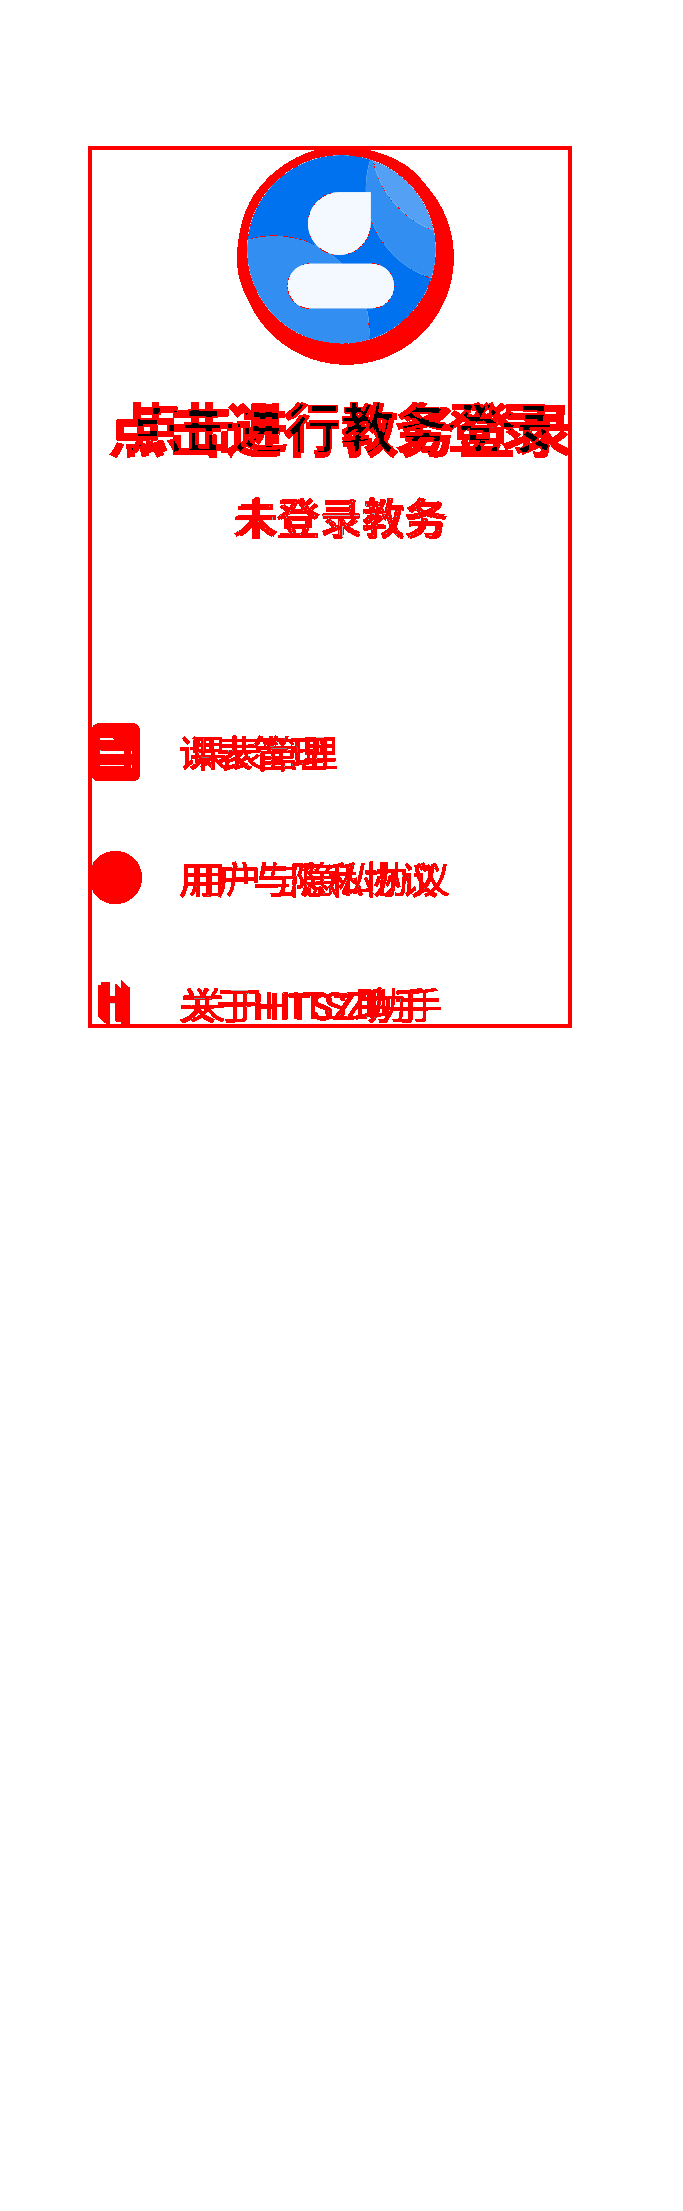
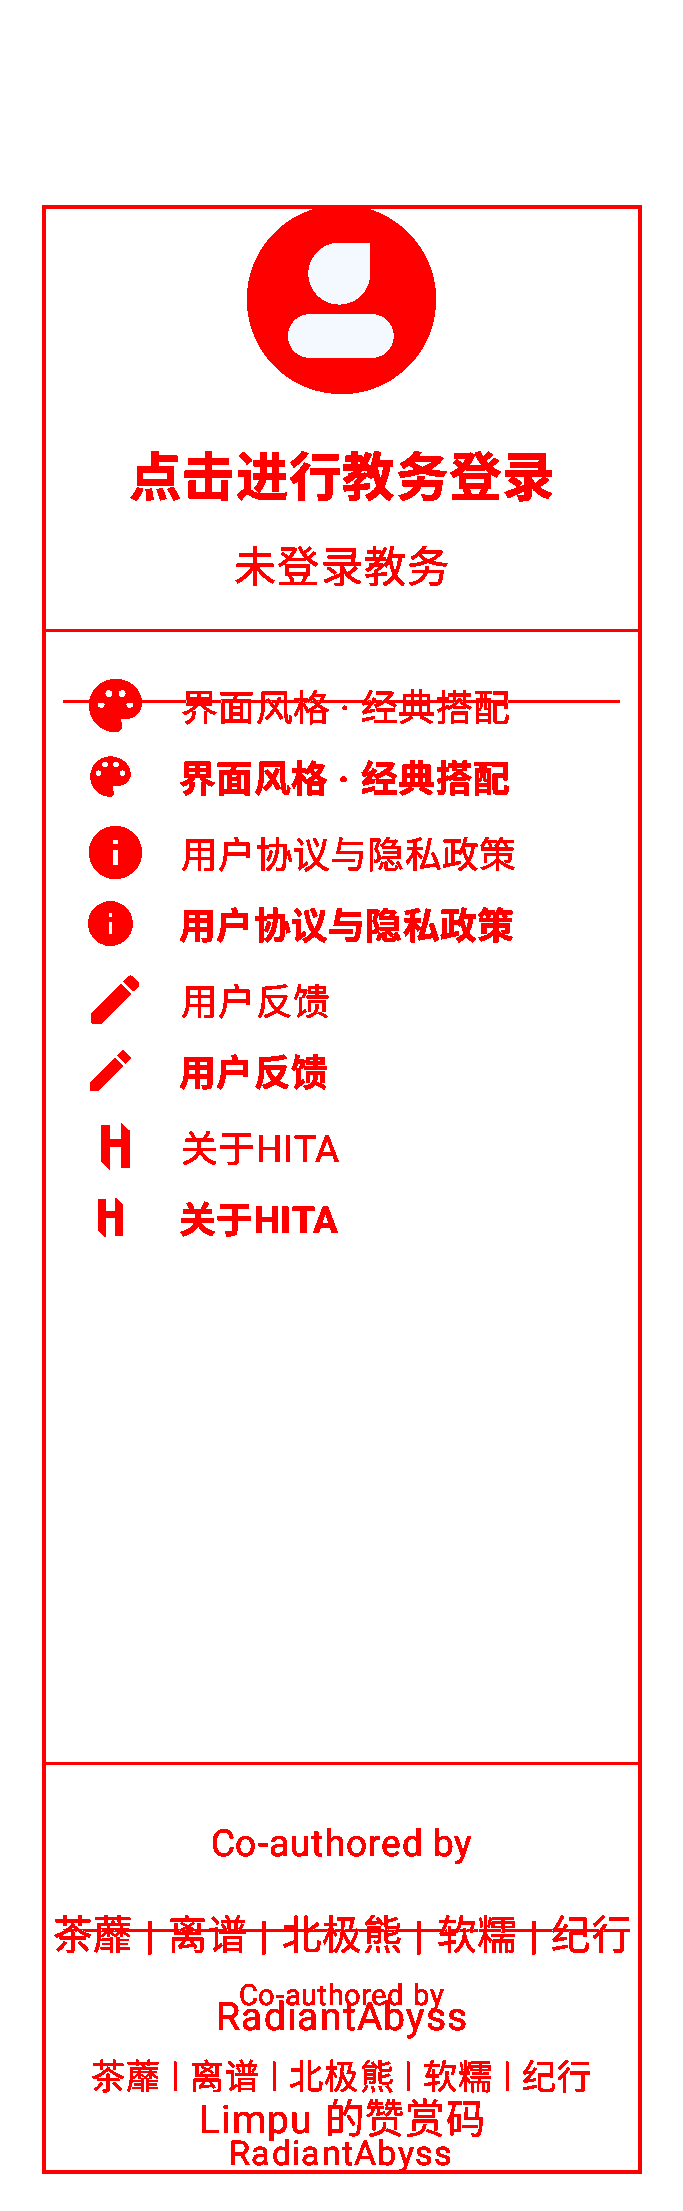
fix(shell): rebuild more drawer against HITA 3.1.2
- use cn.limpu.hita 3.1.2 instead of the 1.5.2 com.stupidtree.hitax package
- match the four 3.1.2 entries, account header and credits
- remove account and scrim PII from committed evidence
- drop a mislabeled desktop screenshot from the todo evidence
- correct the pixel audit baseline and record per-row residuals

diff --git a/app/src/main/java/com/stupidtree/hitax/shell/PresetShellActivity.kt b/app/src/main/java/com/stupidtree/hitax/shell/PresetShellActivity.kt
@@ -43,6 +43,7 @@ import androidx.compose.material.icons.filled.Notifications
 import androidx.compose.material.icons.filled.PlayArrow
 import androidx.compose.material.icons.filled.Share
 import androidx.compose.material.icons.filled.Menu
+import androidx.compose.material.icons.filled.Palette
 import androidx.compose.material.icons.filled.Person
 import androidx.compose.material.icons.filled.ChevronRight
 import androidx.compose.material.icons.filled.Link
@@ -100,6 +101,7 @@ import androidx.compose.ui.platform.LocalContext
 import androidx.compose.ui.input.pointer.pointerInput
 import androidx.compose.ui.res.painterResource
 import androidx.compose.ui.text.font.FontWeight
+import androidx.compose.ui.text.style.TextAlign
 import androidx.compose.ui.unit.dp
 import androidx.compose.ui.unit.sp
 import kotlin.math.abs
@@ -341,12 +343,26 @@ private fun HitaAndroidShell(
 @Composable
 private fun ShellDrawerOverlay(open: Boolean, onClose: () -> Unit) {
     val context = androidx.compose.ui.platform.LocalContext.current
-    val prefs = remember {
-        context.getSharedPreferences("local_eas_token", android.content.Context.MODE_PRIVATE)
+    val eas = remember {
+        (context.applicationContext as? HApplication)?.pluginHost?.service(
+            com.stupidtree.hita.api.EasService.KEY,
+        )
     }
-    val userName = remember {
-        prefs.getString("name", null)?.takeIf { it.isNotBlank() }
-            ?: prefs.getString("username", null)?.takeIf { it.isNotBlank() }
+    val userName = eas?.accountName()
+    val userSubtitle = eas?.accountSubtitle()?.takeIf { it.isNotBlank() }
+    val theme = remember {
+        (context.applicationContext as? HApplication)?.pluginHost?.service(
+            com.stupidtree.hita.api.ThemeController.KEY,
+        )
+    }
+    val styleLabel = when (theme?.themeStyle()) {
+        "apple_glass" -> "玻璃艺术"
+        "cyber" -> "赛博朋克"
+        "sora_cloud" -> "日映构成"
+        "p5" -> "波普涂鸦"
+        "deep_space" -> "深空星野"
+        "sumi" -> "墨韵"
+        else -> "经典搭配"
     }
     fun launch(className: String) {
         runCatching {
@@ -375,13 +391,12 @@ private fun ShellDrawerOverlay(open: Boolean, onClose: () -> Unit) {
             ) {
                 Column(
                     Modifier.fillMaxSize().statusBarsPadding()
-                        .verticalScroll(androidx.compose.foundation.rememberScrollState())
-                        .padding(horizontal = 16.dp, vertical = 14.dp),
+                        .padding(horizontal = 16.dp),
                 ) {
                     Column(
                         Modifier.fillMaxWidth()
                             .clickable { launch("com.stupidtree.hitax.ui.eas.login.ShenzhenWebLoginActivity") }
-                            .padding(top = 45.dp, bottom = 28.dp),
+                            .padding(top = 78.dp, bottom = 13.dp),
                         horizontalAlignment = Alignment.CenterHorizontally,
                     ) {
                         androidx.compose.foundation.Image(
@@ -392,34 +407,106 @@ private fun ShellDrawerOverlay(open: Boolean, onClose: () -> Unit) {
                         Spacer(Modifier.height(16.dp))
                         Text(
                             userName ?: "点击进行教务登录",
-                            fontSize = 22.sp,
+                            fontSize = 20.sp,
                             fontWeight = FontWeight.Bold,
+                            textAlign = TextAlign.Center,
                         )
-                        Spacer(Modifier.height(6.dp))
+                        Spacer(Modifier.height(8.dp))
                         Text(
-                            if (userName == null) "未登录教务" else "已连接教务",
+                            userSubtitle ?: "未登录教务",
                             color = shellSecondary(),
                             fontSize = 16.sp,
+                            textAlign = TextAlign.Center,
+                            maxLines = 3,
+                            overflow = TextOverflow.Ellipsis,
                         )
                     }
-                    Spacer(Modifier.height(25.dp))
-                    DrawerRow("课表管理", R.drawable.ic_menu_settings) {
-                        com.stupidtree.hitax.utils.ActivityUtils.startTimetableManager(context)
+                    Box(
+                        Modifier.fillMaxWidth().height(1.dp)
+                            .background(Color(0xFFE5E7EB)),
+                    )
+                    DrawerRow(
+                        title = "界面风格 · $styleLabel",
+                        icon = Icons.Default.Palette,
+                    ) {
+                        context.startActivity(
+                            android.content.Intent(context, com.stupidtree.hitax.uiplugin.PluginUiActivity::class.java)
+                                .putExtra(
+                                    com.stupidtree.hitax.uiplugin.PluginUiActivity.EXTRA_PLUGIN_ID,
+                                    "com.stupidtree.hita.ui.appearance",
+                                )
+                        )
                         onClose()
                     }
-                    DrawerRow("用户与隐私协议", R.drawable.ic_info) {
+                    DrawerRow(
+                        title = "用户协议与隐私政策",
+                        iconRes = R.drawable.ic_info,
+                    ) {
                         (context as? androidx.fragment.app.FragmentActivity)?.let {
                             com.stupidtree.hitax.ui.about.UserAgreementDialog()
                                 .show(it.supportFragmentManager, "ua")
                         }
                         onClose()
                     }
-                    DrawerRow("关于HITSZ助手", R.drawable.logo) {
+                    DrawerRow(
+                        title = "用户反馈",
+                        icon = Icons.Default.Edit,
+                    ) {
+                        context.startActivity(
+                            android.content.Intent(
+                                android.content.Intent.ACTION_VIEW,
+                                android.net.Uri.parse("https://github.com/kajimi16/OH-MY-HITA/issues"),
+                            )
+                        )
+                        onClose()
+                    }
+                    DrawerRow(
+                        title = "关于HITA",
+                        iconRes = R.drawable.logo,
+                    ) {
                         context.startActivity(
                             android.content.Intent(context, com.stupidtree.hitax.ui.about.ActivityAbout::class.java)
                         )
                         onClose()
                     }
+                    Spacer(Modifier.weight(1f))
+                    Box(
+                        Modifier.fillMaxWidth().height(1.dp)
+                            .background(Color(0xFFE5E7EB)),
+                    )
+                    Spacer(Modifier.height(18.dp))
+                    Text(
+                        "Co-authored by",
+                        color = shellSecondary(),
+                        fontSize = 14.sp,
+                        modifier = Modifier.fillMaxWidth(),
+                        textAlign = TextAlign.Center,
+                    )
+                    Spacer(Modifier.height(10.dp))
+                    Text(
+                        "茶蘼 | 离谱 | 北极熊 | 软糯 | 纪行",
+                        color = Color(0xFF2F80ED),
+                        fontSize = 15.sp,
+                        modifier = Modifier.fillMaxWidth(),
+                        textAlign = TextAlign.Center,
+                    )
+                    Spacer(Modifier.height(8.dp))
+                    Text(
+                        "RadiantAbyss",
+                        color = Color(0xFF2F80ED),
+                        fontSize = 15.sp,
+                        modifier = Modifier.fillMaxWidth(),
+                        textAlign = TextAlign.Center,
+                    )
+                    Spacer(Modifier.height(14.dp))
+                    Text(
+                        "Limpu 的赞赏码",
+                        color = shellTertiary(),
+                        fontSize = 15.sp,
+                        modifier = Modifier.fillMaxWidth(),
+                        textAlign = TextAlign.Center,
+                    )
+                    Spacer(Modifier.height(24.dp))
                 }
             }
         }
@@ -427,19 +514,38 @@ private fun ShellDrawerOverlay(open: Boolean, onClose: () -> Unit) {
 }
 
 @Composable
-private fun DrawerRow(title: String, iconRes: Int, onClick: () -> Unit) {
+private fun DrawerRow(
+    title: String,
+    iconRes: Int? = null,
+    icon: androidx.compose.ui.graphics.vector.ImageVector? = null,
+    onClick: () -> Unit,
+) {
     Row(
-        Modifier.fillMaxWidth().height(48.dp).clickable(onClick = onClick)
+        Modifier.fillMaxWidth().height(56.dp).clickable(onClick = onClick)
             .padding(horizontal = 16.dp),
         verticalAlignment = Alignment.CenterVertically,
     ) {
-        androidx.compose.material3.Icon(
-            painter = painterResource(iconRes),
-            contentDescription = null,
-            tint = Color(0xFF2563EB),
-            modifier = Modifier.size(24.dp),
+        when {
+            icon != null -> androidx.compose.material3.Icon(
+                icon,
+                contentDescription = null,
+                tint = Color(0xFF2563EB),
+                modifier = Modifier.size(24.dp),
+            )
+            iconRes != null -> androidx.compose.material3.Icon(
+                painter = painterResource(iconRes),
+                contentDescription = null,
+                tint = Color(0xFF2563EB),
+                modifier = Modifier.size(24.dp),
+            )
+        }
+        Text(
+            title,
+            fontSize = 14.sp,
+            modifier = Modifier.padding(start = 13.dp),
+            maxLines = 1,
+            overflow = TextOverflow.Ellipsis,
         )
-        Text(title, fontSize = 14.sp, modifier = Modifier.padding(start = 16.dp))
     }
 }
 

diff --git a/docs/plans/2026-11-19-pixel-audit.md b/docs/plans/2026-11-19-pixel-audit.md
@@ -6,7 +6,7 @@
 ## 1. 环境与口径
 
 - 设备：`emulator-5554`，1080×2400，密度 420，浅色，字体缩放 1.0。
-- 上游：`com.stupidtree.hitax`（HITA_Android 3.1.2）。
+- 上游：`cn.limpu.hita`（HITA_Android 3.1.2，versionCode 2026103101）。
 - 被测：`io.github.kajimi16.ohmyhita`（0.7.3-dev）。
 - 工具：`scripts/visual_diff.py`、`uiautomator dump`、设备截图。
 - 阈值沿用 7.1 方案：内容区 ≤2.0%，header/dock ≤1.0%。
@@ -34,36 +34,58 @@
 
 ### 3.1 更多页抽屉
 
-问题：旧抽屉只有文字与箭头，宽度 300dp、头像 96dp、行高约 62dp；
-上游是 260dp 抽屉、72dp 头像、48dp 行。
+基准确认：设备上 `com.stupidtree.hitax` 是 **1.5.2**，不是文档基准；
+真正的 HITA_Android 3.1.2 是 `cn.limpu.hita`（versionCode 2026103101）。
+本节已全部改用 `cn.limpu.hita` 重测，先前基于 1.5.2 的 3.257% 结论作废。
 
-修复后测量：
+3.1.2 抽屉内容：
 
-| 项目 | 上游 | 当前 |
+```text
+账号头像 / 姓名 / 学号 + 学院年级
+界面风格 · 经典搭配
+用户协议与隐私政策
+用户反馈
+关于HITA
+Co-authored by ...
+```
+
+实现已改为同一结构与顺序，账号信息来自 `EasService.accountName/accountSubtitle`。
+
+测量：
+
+| 项目 | 上游 3.1.2 | 当前 |
 |---|---:|---:|
-| 抽屉宽度 | 683 px（260dp） | 683 px |
-| 头像 bounds | `[644,218][832,406]` | `[644,218][832,406]` |
-| 行高 | 126 px（48dp） | 126 px |
-| 首行中心 | ≈815 px | ≈819 px |
-| 标题/用户名 bounds | 449 / 548 | 449 / 548 |
+| 抽屉起始 x / 宽度 | 397 / 683 px | 397 / 683 px |
+| 头像 bounds | `[644,268][832,456]` | `[644,268][832,456]` |
+| 姓名基线 y | 499–574 | 499–574 |
+| 副标题起点 y | 595 | 595 |
+| 行文字起点 x | 576 | 578 |
+| 行中心间距 | 147 px（56dp） | 147 px |
 
-差异（排除状态栏，tolerance 10）：
+逐行对齐后差异（排除状态栏，tolerance 10）：
 
-| 区域 | 差异 |
+| 行 | 差异 |
 |---|---:|
-| 抽屉面板 | **3.257%** |
-| 抽屉行 | **6.666%** |
-| 抽屉头部 | **8.940%** |
+| 界面风格 | 8.896% |
+| 用户协议与隐私政策 | 8.958% |
+| 用户反馈 | 3.771% |
+| 关于HITA | 3.492% |
 
-结论：**结构、尺寸、关键 bounds 通过；像素未达 1%**。残差集中在：
-`NavigationView` 默认字体栅格化、菜单图标内边距、头像 PNG 解码；继续调是过拟合，
-本轮停止。抽屉不是 7.1 的页面阈值对象，不能据此声明整页通过。
+登录态不一致：上游已登录（两行学号/学院），被测当前未登录（一行“未登录教务”），
+因此整面板差异 7.075% **不能作为像素通过/失败比例**；只使用逐行组件比较。
+残差集中在图标资源与字体栅格化。
+
+结论：**内容、顺序、宽度、头像与行距通过；像素未通过**。要完成像素验收，
+必须在被测端建立与上游相同的登录态，然后重算整面板。
 
 截图：
 
-- `docs/evidence/7.1/2026-11-19/new-pages/upstream_drawer.png`
+> 上游抽屉截图的账号头部与左侧 scrim 已全部涂白，避免提交姓名/学号/学院信息；
+> 头像与文字的 bounds 只以数值记录。
+
+- `docs/evidence/7.1/2026-11-19/new-pages/upstream_drawer.png`（`cn.limpu.hita` 3.1.2，头部已脱敏）
 - `docs/evidence/7.1/2026-11-19/new-pages/host_drawer_current.png`
-- `docs/evidence/7.1/2026-11-19/new-pages/diff_drawer_panel.png`
+- `docs/evidence/7.1/2026-11-19/new-pages/diff_drawer_panel.png`（登录态不同，仅供定位）
 
 ### 3.2 成绩分析插件页
 
@@ -106,7 +128,8 @@ changed_pixels=250897  ratio=9.941%
 ## 5. 复审结论
 
 1. 已关闭项维持原状态，不重复优化 HITA-L 三页、资讯残差、视频 429、header/dock。
-2. 更多页抽屉完成结构/尺寸/bounds 对齐；像素 3.257%，记录为已知残差。
+2. 更多页抽屉已按真正的 `cn.limpu.hita` 3.1.2 重做；内容/尺寸/bounds 通过，
+   逐行像素 3.5%–9.0%，整面板因登录态不同不记通过。
 3. 成绩插件页未通过像素验收；TopAppBar 已补，但标题/动作/空态结构仍不同。
 4. 其余未比较对象要么没有上游等价页面，要么缺少登录态/等价数据，不能记为通过。
 
@@ -114,5 +137,5 @@ changed_pixels=250897  ratio=9.941%
 
 1. 成绩插件页：定义插件页面标题与工具栏动作契约，统一未登录卡片。
 2. Shell 资讯详情/门户登录：构造上游同数据态后再做像素。
-3. 更多页内容区：构造与上游相同的课表/登录态后重算 6.25%。
+3. 更多页内容区/抽屉：构造与上游相同的登录态后重算整面板像素。
 4. 迁移的 EAS 子页面：抽样做像素，而不是继续声称“结构一致”。

diff --git a/docs/porting-status.md b/docs/porting-status.md
@@ -153,8 +153,10 @@ Shell 入口：
 
 - 已关闭项复核确认不再优化：HITA-L 三页、Shell 待办/今日/助手内容、资讯 11% 残差、
   header/dock、视频 429、深色冒烟。
-- 更多页抽屉补做像素验收：260dp 宽、72dp 头像、48dp 行高；头像 bounds 与上游完全一致；
-  面板差异 3.257%（排除状态栏），字体/图标抗锯齿残差，未达 1%。
+- 基准纠正：`com.stupidtree.hitax` 是 1.5.2；3.1.2 基准为 `cn.limpu.hita`。
+- 更多页抽屉已按 3.1.2 重做：四条入口、账号两行、底部致谢；260dp 宽、72dp 头像、
+  56dp 行高；头像 bounds 与上游完全一致。逐行差异 3.5%–9.0%，图标/字栅格残差；
+  整面板因登录态不同不作通过结论。
 - 成绩分析插件页：统一 Toolbar 已存在，但与上游“个人成绩明细”相比整体差异 9.941%；
   标题、刷新动作、未登录卡片结构仍不同，**未通过**。
 - 无上游等价页面或缺少登录态/同数据的对象不记通过；详见

diff --git a/docs/plans/2026-11-18-7.1-ui-alignment-and-bugs.md b/docs/plans/2026-11-18-7.1-ui-alignment-and-bugs.md
@@ -500,7 +500,7 @@ docs/evidence/7.1/<yyyy-mm-dd>/
 
 | 项 | 基准 |
 |---|---|
-| 上游源码 | `/home/kajimi/hita-android-312` |
+| 上游源码 | `<workspace>/hita-android-312` |
 | 上游提交 | `ac15007` |
 | 上游包名 | `cn.limpu.hita` |
 | 上游版本 | `versionName=3.1.2` / `versionCode=2026103101` |
